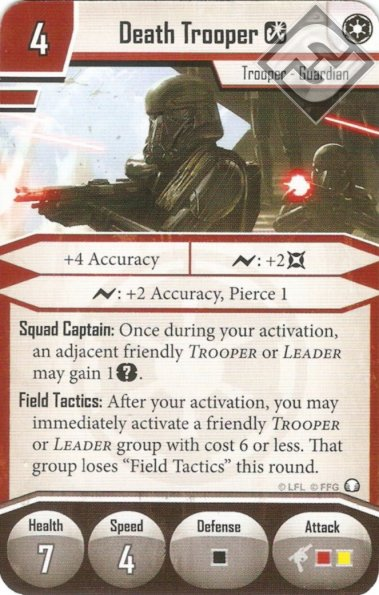
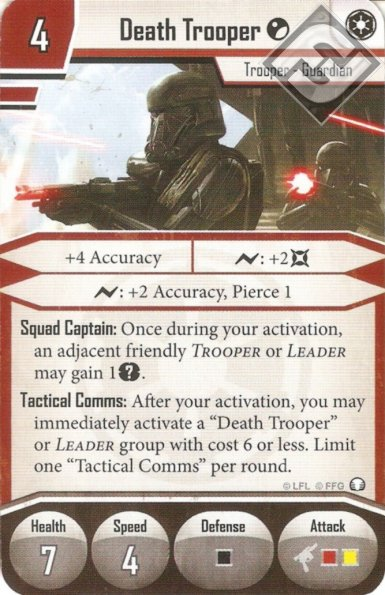
v.1.0.5 update
Removing a group from the Deployment Hand in the DEBUG MENU (ESC key) now properly adds that group's card back into the manual deployment deck so it can be re-deployed manually.
A few more text data were corrected
Death Trooper's card image now uses the correct version

diff --git a/LORAI/Assets/Scripts/Title/GroupChooserScreen.cs b/LORAI/Assets/Scripts/Title/GroupChooserScreen.cs
@@ -3,6 +3,7 @@ using UnityEngine;
 using UnityEngine.UI;
 using System.Linq;
 using System;
+using UnityEngine.EventSystems;
 
 public class GroupChooserScreen : MonoBehaviour
 {
@@ -13,6 +14,7 @@ public class GroupChooserScreen : MonoBehaviour
 	public MissionToggleContainer missionToggleContainer;
 	public HeroAllyToggleContainer heroAllyToggleContainer;
 	public Text enemyGroupTitle;
+	public GameObject previewButton;
 
 	Sound sound;
 	ChooserMode mode;
@@ -44,6 +46,7 @@ public class GroupChooserScreen : MonoBehaviour
 		expButtons[7].gameObject.SetActive( true );//Other is always active
 
 		//reset UI
+		previewButton.gameObject.SetActive( false );
 		if ( mode == ChooserMode.DeploymentGroups )
 		{
 			switch ( dataGroupIndex )
@@ -79,6 +82,7 @@ public class GroupChooserScreen : MonoBehaviour
 	public void OnViewCard()
 	{
 		sound.PlaySound( FX.Click );
+		EventSystem.current.SetSelectedGameObject( null );
 		cardZoomer.ZoomIn( previewImage.sprite );
 	}
 
@@ -96,6 +100,7 @@ public class GroupChooserScreen : MonoBehaviour
 	public void OnBack()
 	{
 		sound.PlaySound( FX.Click );
+		EventSystem.current.SetSelectedGameObject( null );
 		fader.DOFade( 0, .5f );
 		cg.DOFade( 0, .5f ).OnComplete( () =>
 		{
@@ -109,7 +114,7 @@ public class GroupChooserScreen : MonoBehaviour
 
 	private void Update()
 	{
-		if ( Input.GetKeyDown( KeyCode.Space ) )
+		if ( Input.GetKeyDown( KeyCode.Space ) && !cardZoomer.gameObject.activeInHierarchy )
 			OnBack();
 	}
 }

diff --git a/LORAI/Assets/Scripts/Common/DataStore.cs b/LORAI/Assets/Scripts/Common/DataStore.cs
@@ -151,6 +151,14 @@ public static class DataStore
 			.MinusStarting()
 			.MinusEarnedVillains();
 
+		available.Sort( ( x, y ) =>
+		 {
+			 if ( int.Parse( x.id.Replace( "DG", "" ) ) == int.Parse( y.id.Replace( "DG", "" ) ) )
+				 return 0;
+			 else
+				 return int.Parse( x.id.Replace( "DG", "" ) ) < int.Parse( y.id.Replace( "DG", "" ) ) ? -1 : 1;
+		 } );
+
 		manualDeploymentList = available.ToList();
 		Debug.Log( $"MANUAL GROUP SIZE: {manualDeploymentList.Count} CARDS" );
 

diff --git a/LORAI/Assets/Scripts/Title/CardZoomer.cs b/LORAI/Assets/Scripts/Title/CardZoomer.cs
@@ -2,6 +2,7 @@
 using DG.Tweening;
 using UnityEngine.UI;
 using System;
+using UnityEngine.EventSystems;
 
 public class CardZoomer : MonoBehaviour
 {
@@ -43,6 +44,7 @@ public class CardZoomer : MonoBehaviour
 	public void OnClose()
 	{
 		sound.PlaySound( FX.Click );
+		EventSystem.current.SetSelectedGameObject( null );
 		ZoomOut();
 	}
 

diff --git a/LORAI/Assets/Scripts/MainGame/DebugObject.cs b/LORAI/Assets/Scripts/MainGame/DebugObject.cs
@@ -25,6 +25,8 @@ public class DebugObject : MonoBehaviour
 	public void OnRemove()
 	{
 		DataStore.deploymentHand.Remove( cardDescriptor );
+		DataStore.CreateManualDeployment();
+
 		Destroy( gameObject );
 	}
 }
